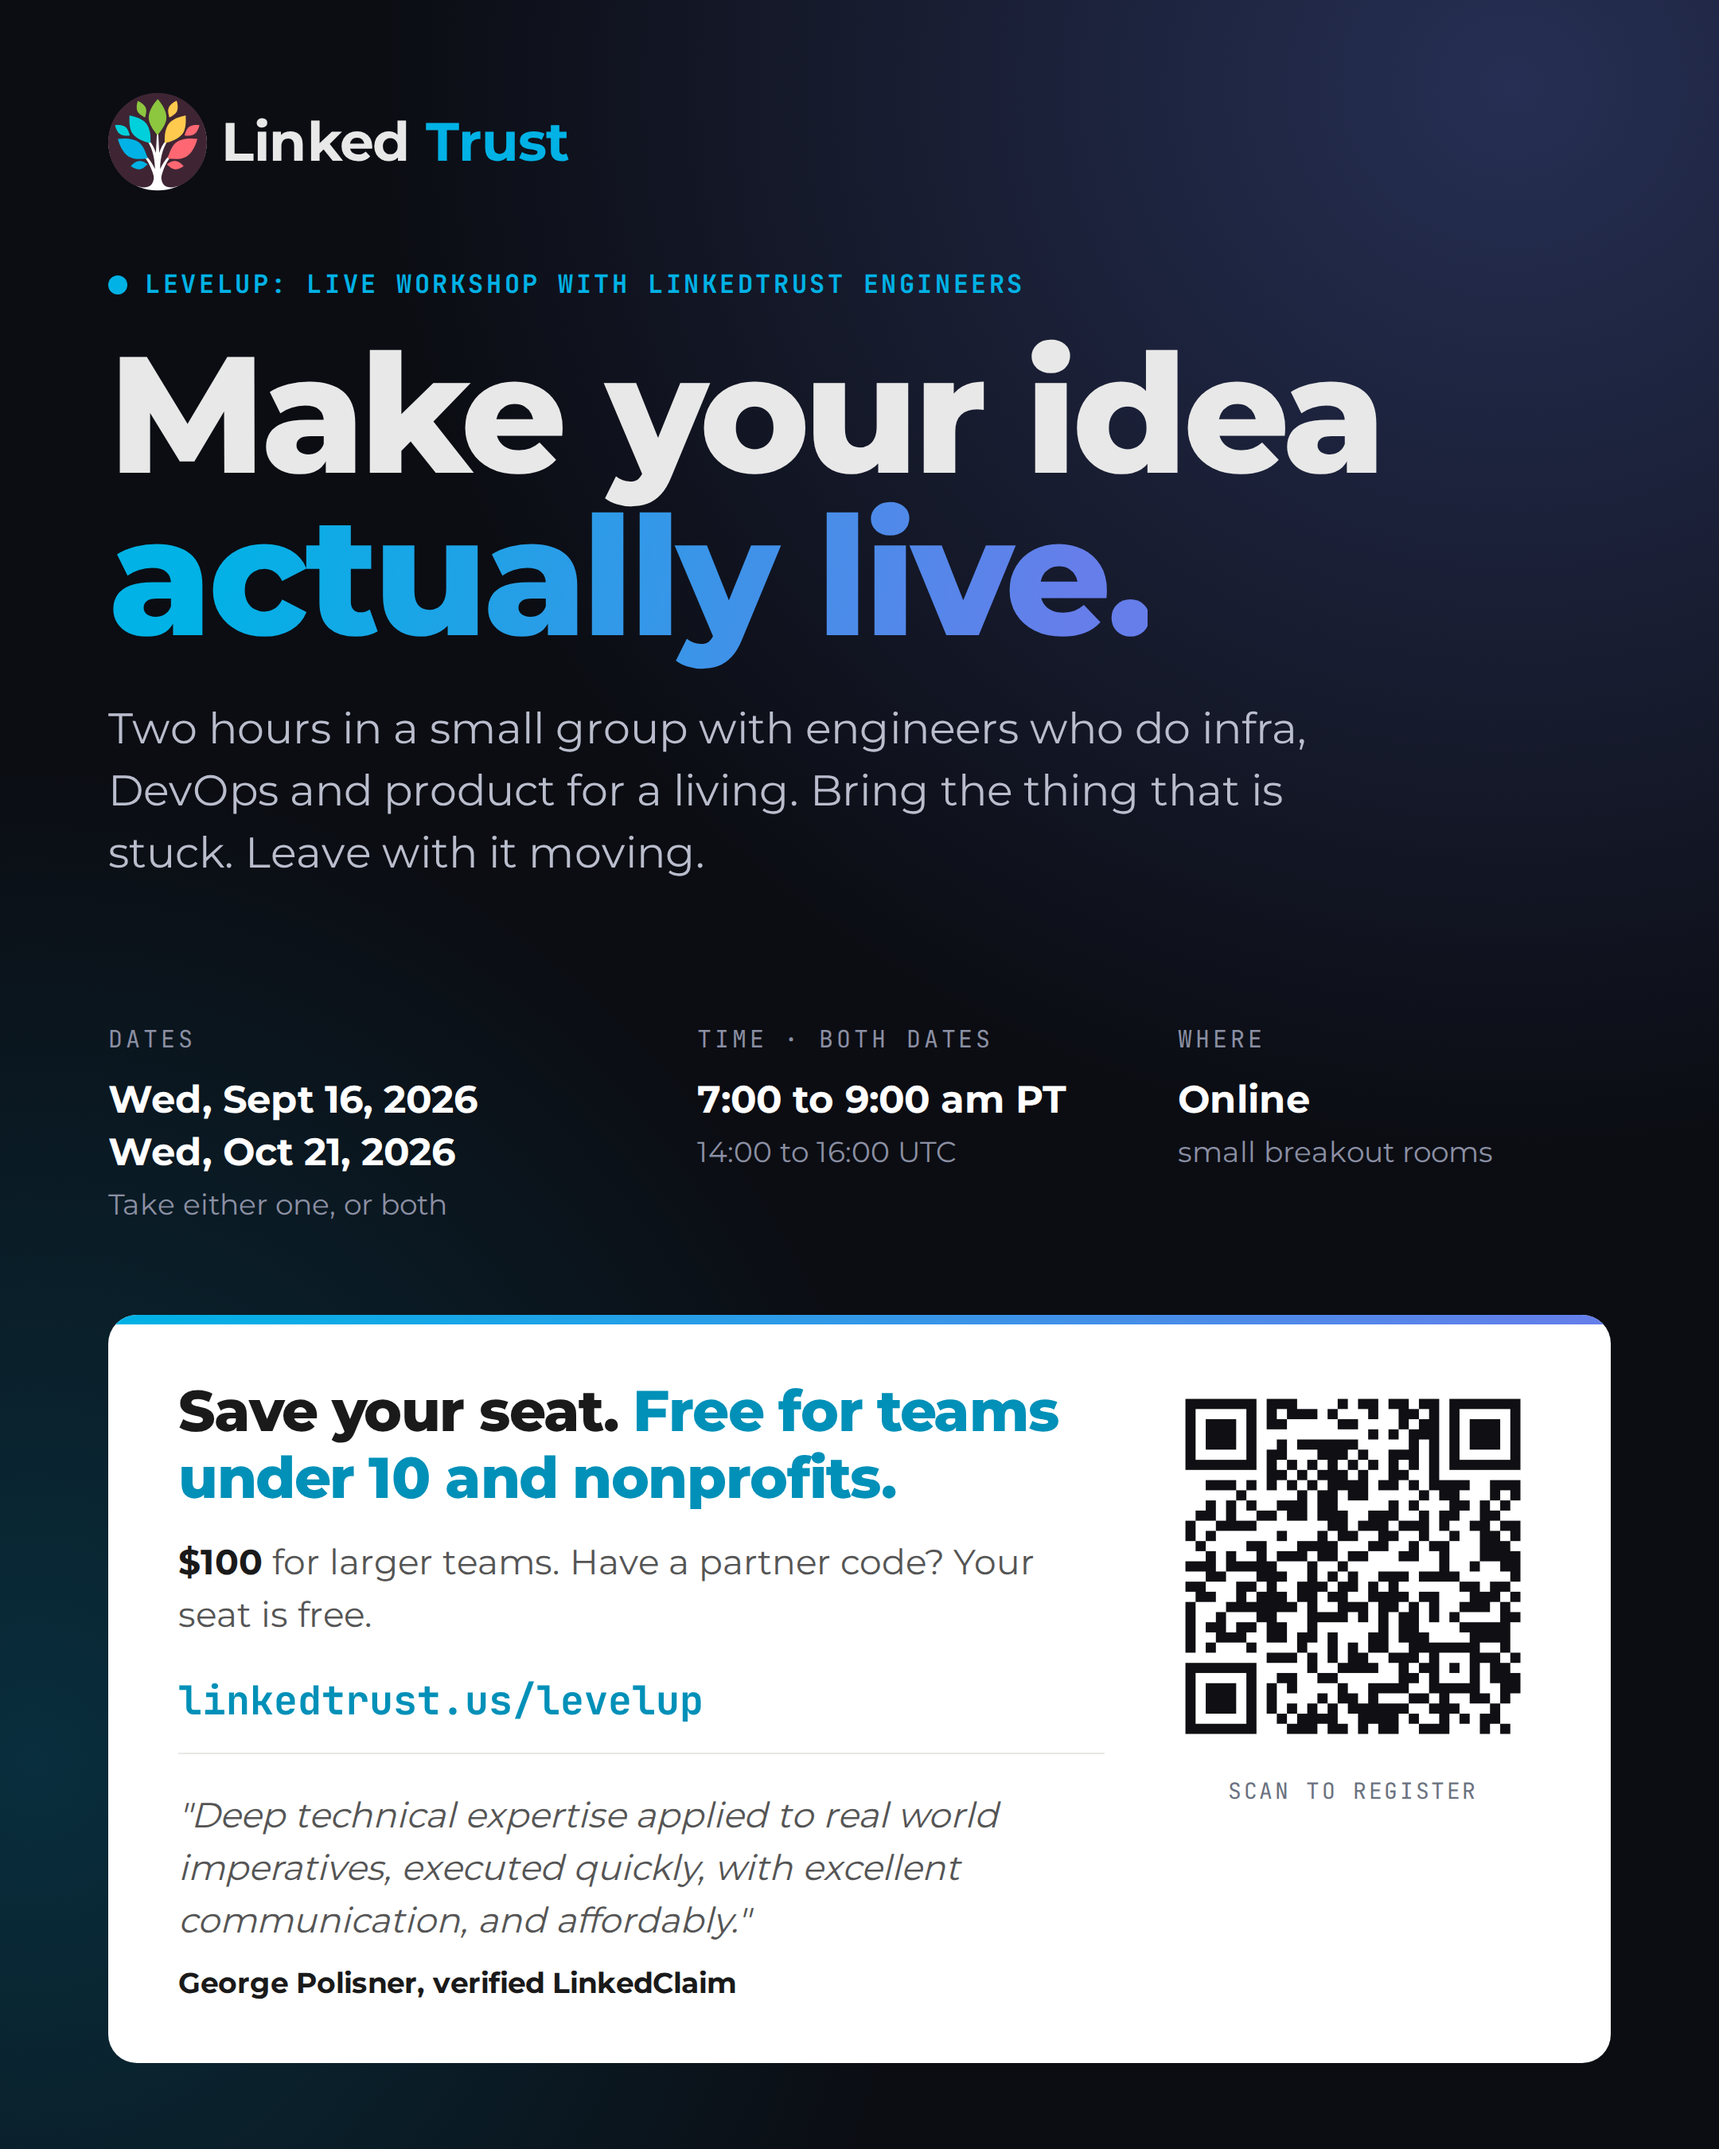
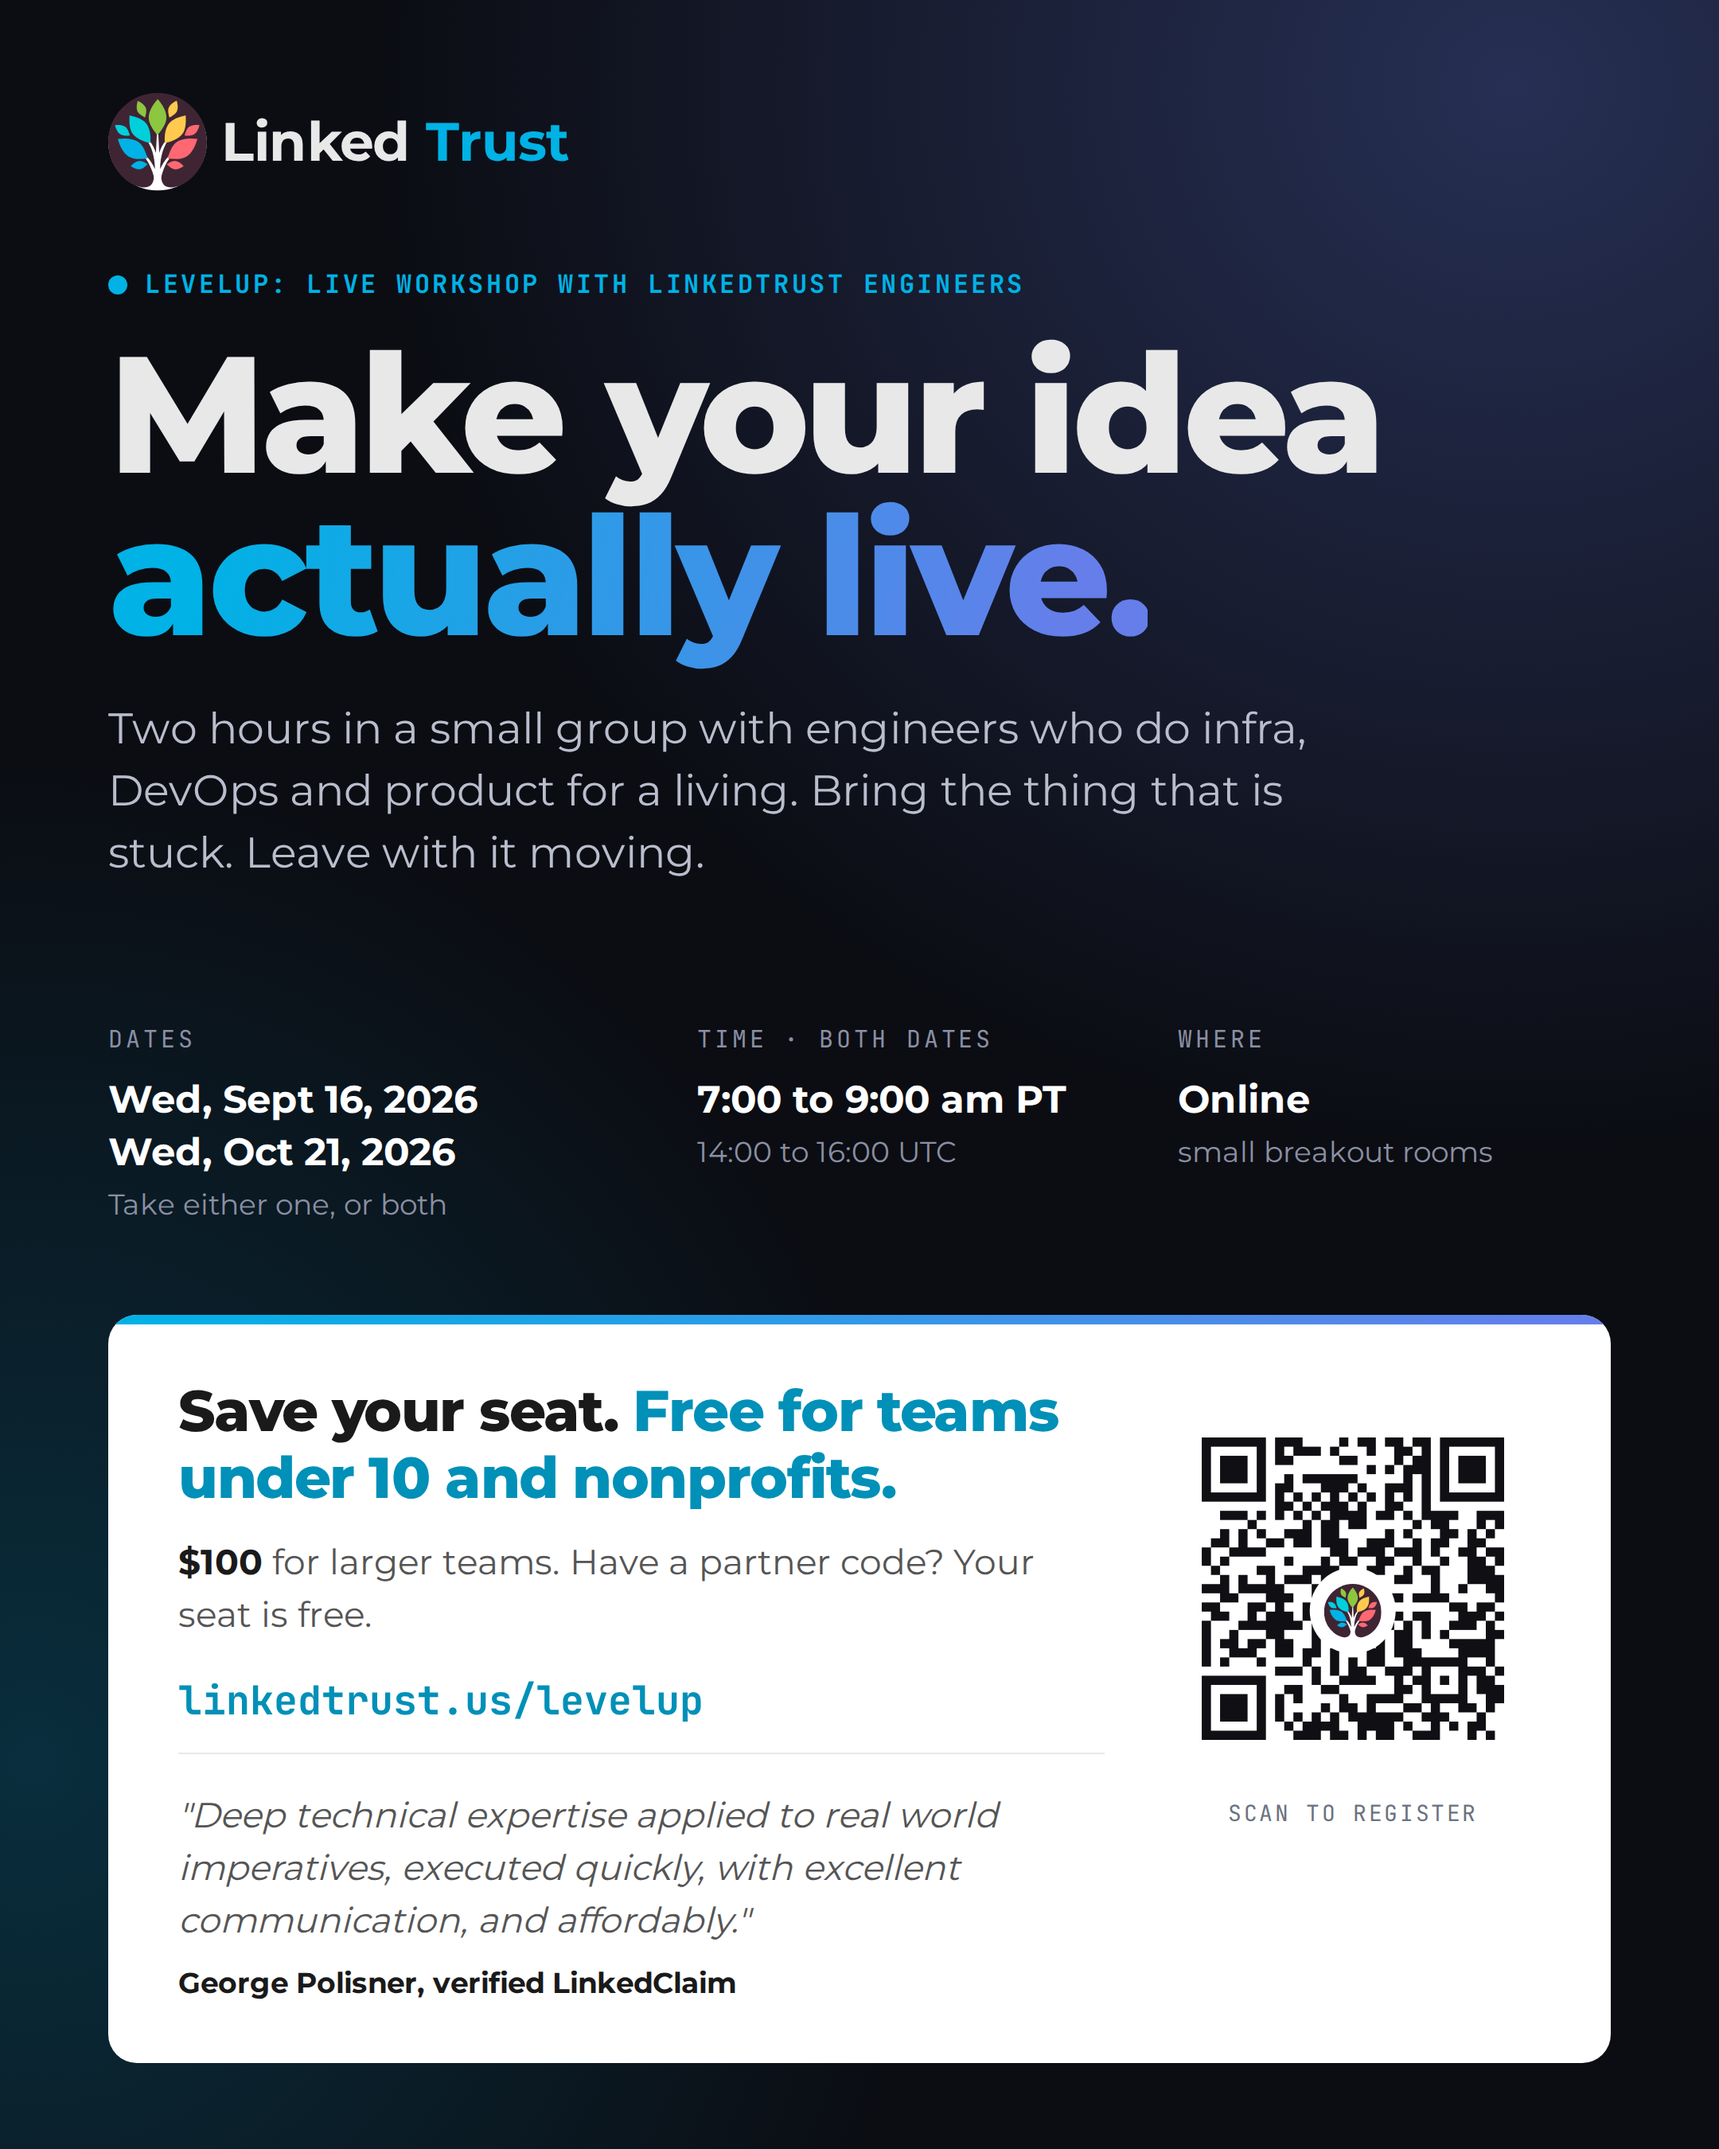
levelup: the leaf mark back in the middle of the QR
The standalone QR is now a third artboard in the same file, so the flyer, the
banner and the download all carry the same branded code. Error correction H
plus a quiet zone; all three decode to linkedtrust.us/levelup.

Claude-Session: https://claude.ai/code/session_01BTqwSManXKSoAyr6VvGkaC

Changed region(s): [[0.6824, 0.6533, 0.8995, 0.84]]

diff --git a/design/levelup-flyer.html b/design/levelup-flyer.html
@@ -62,7 +62,12 @@ h1 em { font-style: normal; background: linear-gradient(100deg, #00B2E5 10%, #66
 .card .url { font-family: 'JetBrains Mono', monospace; color: #0090b8; font-weight: 700; word-break: break-all; }
 .card b { color: var(--ink); }
 .qr { text-align: center; flex: none; }
+.qr .code { position: relative; }
 .qr img { display: block; width: 100%; height: auto; border-radius: 10px; }
+.qr .mark { position: absolute; top: 50%; left: 50%; transform: translate(-50%, -50%);
+            width: 23%; height: 23%; background: #fff; border-radius: 50%;
+            display: flex; align-items: center; justify-content: center; padding: 4%; }
+.qr .mark img { width: 100%; height: 100%; border-radius: 0; }
 .qr span { display: block; color: #6b7280; font-family: 'JetBrains Mono', monospace;
            letter-spacing: 0.13em; text-transform: uppercase; }
 .quote { border-top: 1px solid #e8e8e6; color: #4b5563; font-style: italic; }
@@ -89,6 +94,12 @@ h1 em { font-style: normal; background: linear-gradient(100deg, #00B2E5 10%, #66
 #portrait .qr span { font-size: 14px; margin-top: 14px; }
 #portrait .quote { font-size: 19px; line-height: 1.55; margin-top: 26px; padding-top: 22px; }
 #portrait .quote b { font-size: 18px; margin-top: 10px; }
+
+/* ---------------- standalone QR 888 x 888 ---------------- */
+#qrboard { width: 888px; height: 888px; background: #fff; padding: 44px;
+           display: flex; align-items: center; justify-content: center; }
+#qrboard .qr { width: 800px; }
+#qrboard .qr img { border-radius: 0; }
 
 /* ---------------- landscape 1200 x 627 ---------------- */
 #landscape { width: 1200px; height: 627px; padding: 46px 52px; display: flex; gap: 46px; align-items: center; }
@@ -138,8 +149,12 @@ h1 em { font-style: normal; background: linear-gradient(100deg, #00B2E5 10%, #66
             <span class="url">linkedtrust.us/levelup</span>
             <p class="quote">"Deep technical expertise applied to real world imperatives, executed quickly, with excellent communication, and affordably."<b>George Polisner, verified LinkedClaim</b></p>
         </div>
-        <div class="qr"><img src="QR_SRC" alt="linkedtrust.us/levelup"><span>Scan to register</span></div>
+        <div class="qr"><span class="code"><img src="QR_SRC" alt="linkedtrust.us/levelup"><span class="mark"><img src="LOGO_SRC" alt=""></span></span><span>Scan to register</span></div>
     </div>
+</div>
+
+<div class="board" id="qrboard">
+    <div class="qr"><span class="code"><img src="QR_SRC" alt="linkedtrust.us/levelup"><span class="mark"><img src="LOGO_SRC" alt=""></span></span></div>
 </div>
 
 <div class="board" id="landscape">
@@ -167,6 +182,6 @@ h1 em { font-style: normal; background: linear-gradient(100deg, #00B2E5 10%, #66
         <h2>Save your seat. <em>Free for teams under 10 and nonprofits.</em></h2>
         <p><b>$100</b> for larger teams. Have a partner code? Your seat is free.</p>
         <span class="url">linkedtrust.us/levelup</span>
-        <div class="qr"><img src="QR_SRC" alt="linkedtrust.us/levelup"><span>Scan to register</span></div>
+        <div class="qr"><span class="code"><img src="QR_SRC" alt="linkedtrust.us/levelup"><span class="mark"><img src="LOGO_SRC" alt=""></span></span><span>Scan to register</span></div>
     </div>
 </div>

diff --git a/design/build_levelup_art.py b/design/build_levelup_art.py
@@ -25,6 +25,7 @@ REGISTER_URL = 'https://linkedtrust.us/levelup/'
 BOARDS = [
     ('portrait', 'levelup-flyer-1080x1350.png', 1080, 1350),
     ('landscape', 'levelup-banner-1200x627.png', 1200, 627),
+    ('qrboard', 'levelup-qr.png', 888, 888),
 ]
 
 
@@ -33,7 +34,7 @@ def qr_png(scale=12):
     in the middle does not stop a phone reading it."""
     buf = BytesIO()
     segno.make(REGISTER_URL, error='h').save(
-        buf, kind='png', scale=scale, border=2, dark='#101014', light='#ffffff')
+        buf, kind='png', scale=scale, border=4, dark='#101014', light='#ffffff')
     return buf.getvalue()
 
 
@@ -44,8 +45,6 @@ def data_uri(payload, mime):
 def main():
     OUT.mkdir(parents=True, exist_ok=True)
     qr = qr_png()
-    (OUT / 'levelup-qr.png').write_bytes(qr)
-
     html = (ROOT / 'design' / 'levelup-flyer.html').read_text()
     html = html.replace('QR_SRC', data_uri(qr, 'image/png'))
     html = html.replace('LOGO_SRC', data_uri((ROOT / 'static' / 'img' / 'logo.svg').read_bytes(), 'image/svg+xml'))
@@ -69,7 +68,6 @@ def main():
             browser.close()
     finally:
         staged.unlink(missing_ok=True)
-    print('wrote', OUT / 'levelup-qr.png')
 
 
 if __name__ == '__main__':
